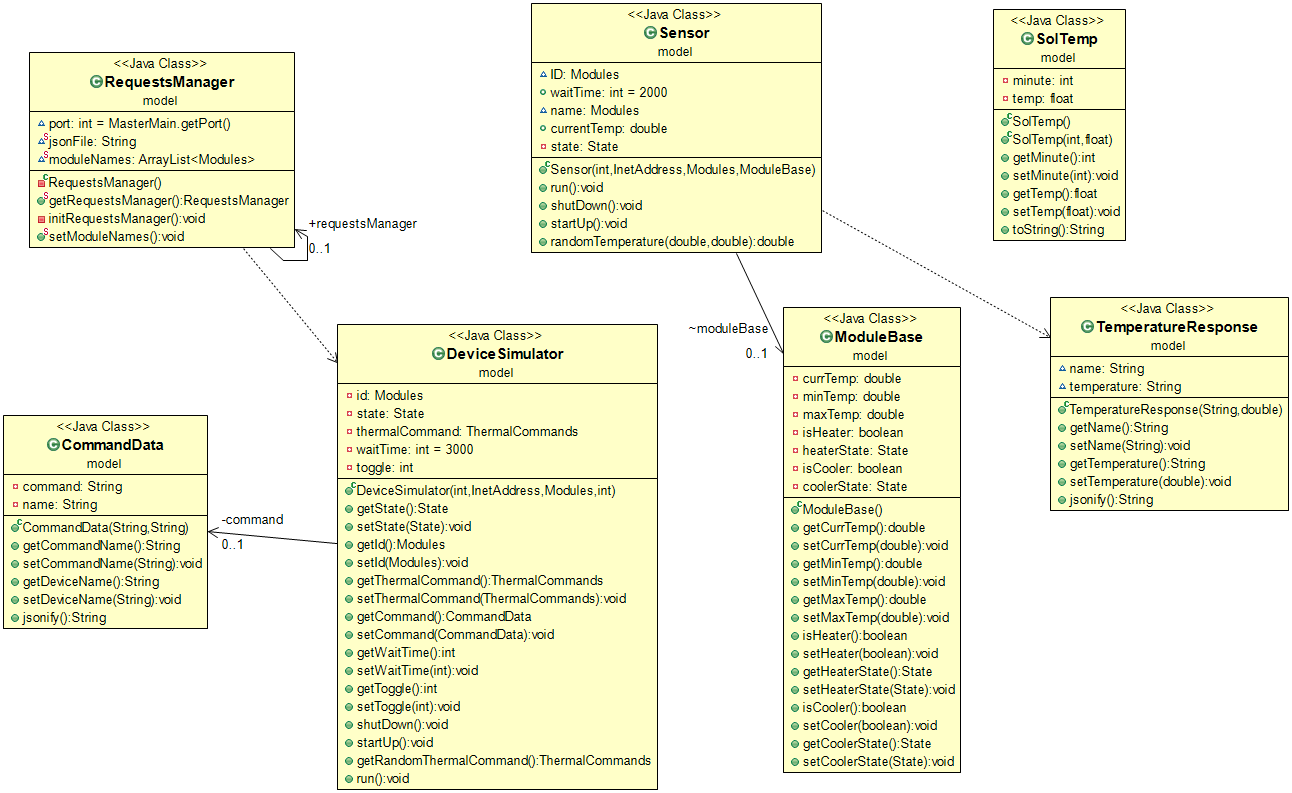
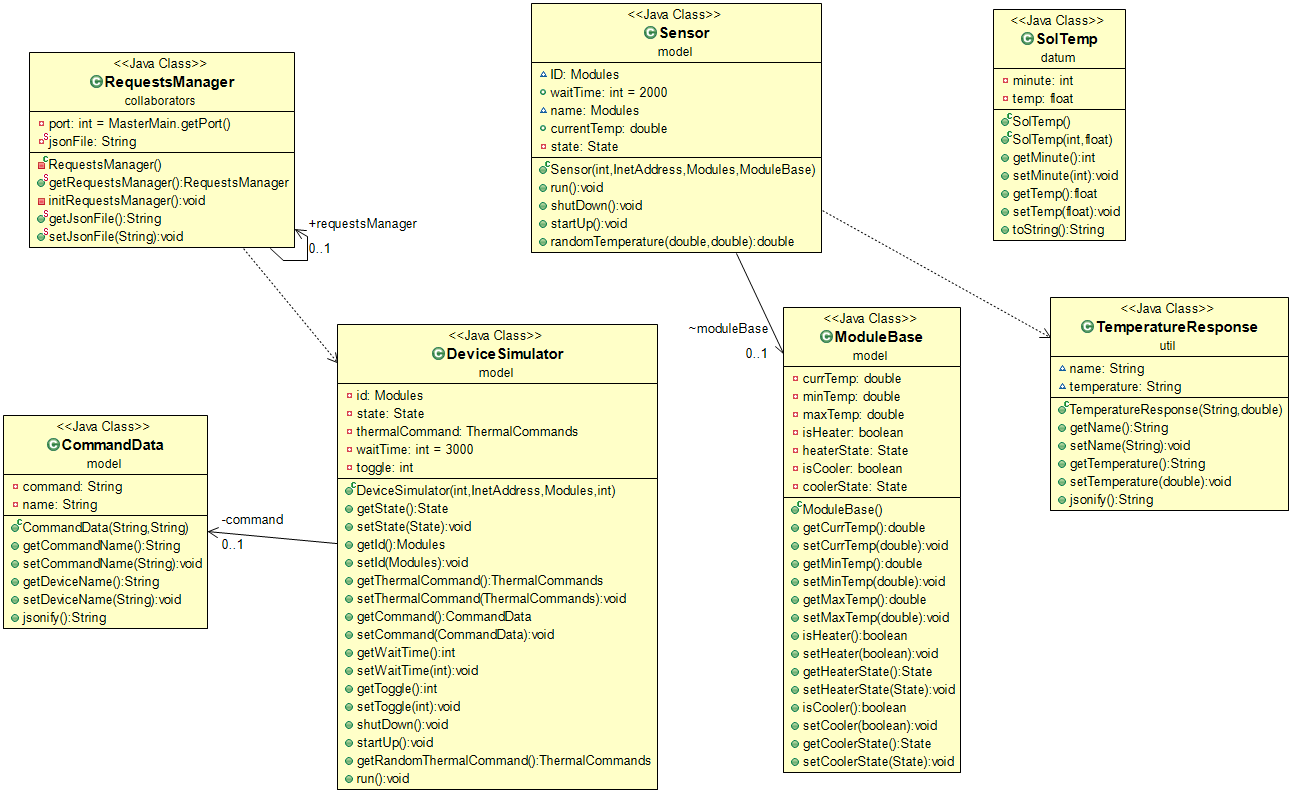
modularize

diff --git a/g05thermal/server/ThermalServerChild.java b/g05thermal/server/ThermalServerChild.java
@@ -9,11 +9,10 @@ import java.util.Iterator;
 
 import model.CommandData;
 import model.ModuleBase;
-import model.TemperatureResponse;
 
 import org.json.JSONObject;
 
-import usecase.ThermalDataSector;
+import util.TemperatureResponse;
 
 import com.google.gson.Gson;
 import com.google.gson.GsonBuilder;
@@ -22,6 +21,7 @@ import constant.Modules;
 import constant.State;
 import constant.ThermalCommands;
 import constant.ThermalKeys;
+import datum.ThermalDataSector;
 import generic.RoverClientRunnable;
 import generic.RoverServerRunnable;
 import generic.RoverThreadHandler;

diff --git a/g05thermal/datum/ThermalDataSector.java b/g05thermal/datum/ThermalDataSector.java
@@ -1,4 +1,4 @@
-package usecase;
+package datum;
 
 import java.io.FileNotFoundException;
 import java.io.FileReader;
@@ -15,13 +15,13 @@ import java.util.TreeMap;
 import java.util.logging.Logger;
 
 import model.ModuleBase;
-import model.TemperatureResponse;
 
 import org.json.simple.JSONArray;
 import org.json.simple.JSONObject;
 import org.json.simple.parser.JSONParser;
 import org.json.simple.parser.ParseException;
 
+import util.TemperatureResponse;
 import constant.Modules;
 import constant.State;
 

diff --git a/g05thermal/json/ExelToJSON.java b/g05thermal/json/ExelToJSON.java
@@ -5,8 +5,6 @@ import java.io.FileInputStream;
 import java.io.FileWriter;
 import java.util.Iterator;
 
-import model.SolTemp;
-
 import org.apache.poi.ss.usermodel.Cell;
 import org.apache.poi.ss.usermodel.Row;
 import org.apache.poi.xssf.usermodel.XSSFSheet;
@@ -14,6 +12,8 @@ import org.apache.poi.xssf.usermodel.XSSFWorkbook;
 
 import com.google.gson.Gson;
 import com.google.gson.GsonBuilder;
+
+import datum.SolTemp;
 
 /**
  * Converts data in excel sheet to JSON file and objects. <br>

diff --git a/g05thermal/main/MasterMain.java b/g05thermal/main/MasterMain.java
@@ -4,10 +4,10 @@ import generic.RoverThreadHandler;
 
 import java.io.IOException;
 
+import collaborators.RequestsManager;
+import collaborators.SensorManager;
 import json.Constants;
-import model.RequestsManager;
 import server.ThermalServer;
-import usecase.SensorManager;
 /**
  * <b>MasterMain is used to run the project.</b> <br>
  * This Class will Create the instance of ThermalServer and starts it 

diff --git a/g05thermal/collaborators/RequestsManager.java b/g05thermal/collaborators/RequestsManager.java
@@ -1,4 +1,4 @@
-package model;
+package collaborators;
 
 import generic.RoverThreadHandler;
 
@@ -6,6 +6,7 @@ import java.net.UnknownHostException;
 
 import constant.Modules;
 import main.MasterMain;
+import model.DeviceSimulator;
 
 
 public class RequestsManager {

diff --git a/g05thermal/datum/SolTemp.java b/g05thermal/datum/SolTemp.java
@@ -1,4 +1,4 @@
-package model;
+package datum;
 /**
  * This is a model class represents a sol (1 sol represents one day which is equivalent 
  * to one 24 hours and 40 minutes of the Earth time) temperature of Mars.

diff --git a/g05thermal/model/Sensor.java b/g05thermal/model/Sensor.java
@@ -6,6 +6,7 @@ import java.io.ObjectOutputStream;
 import java.net.InetAddress;
 import java.net.UnknownHostException;
 
+import util.TemperatureResponse;
 import constant.Modules;
 import constant.State;
 

diff --git a/g05thermal/collaborators/SensorManager.java b/g05thermal/collaborators/SensorManager.java
@@ -1,4 +1,4 @@
-package usecase;
+package collaborators;
 
 import java.io.FileNotFoundException;
 import java.io.FileReader;

diff --git a/g05thermal/util/TemperatureResponse.java b/g05thermal/util/TemperatureResponse.java
@@ -1,4 +1,4 @@
-package model;
+package util;
 
 import com.google.gson.Gson;
 import com.google.gson.GsonBuilder;
